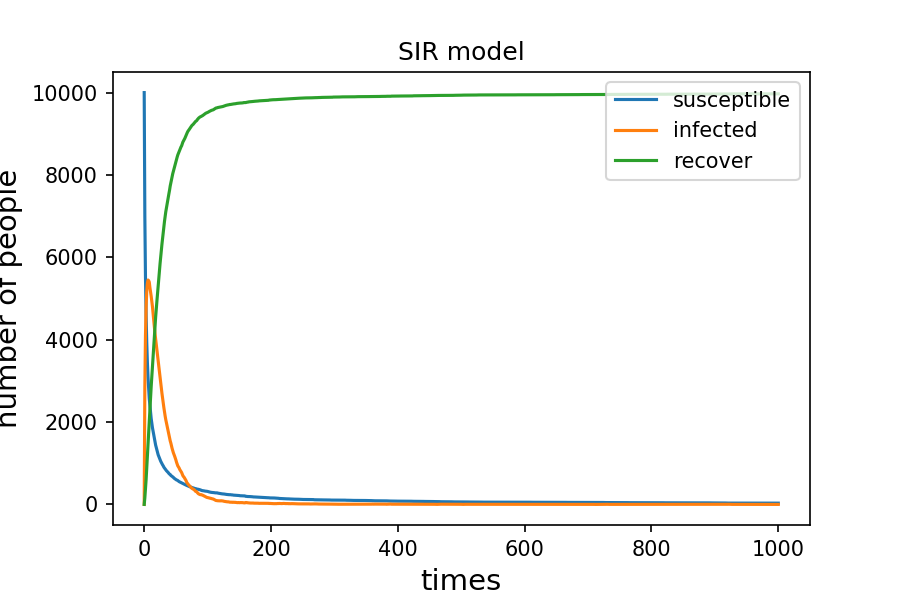
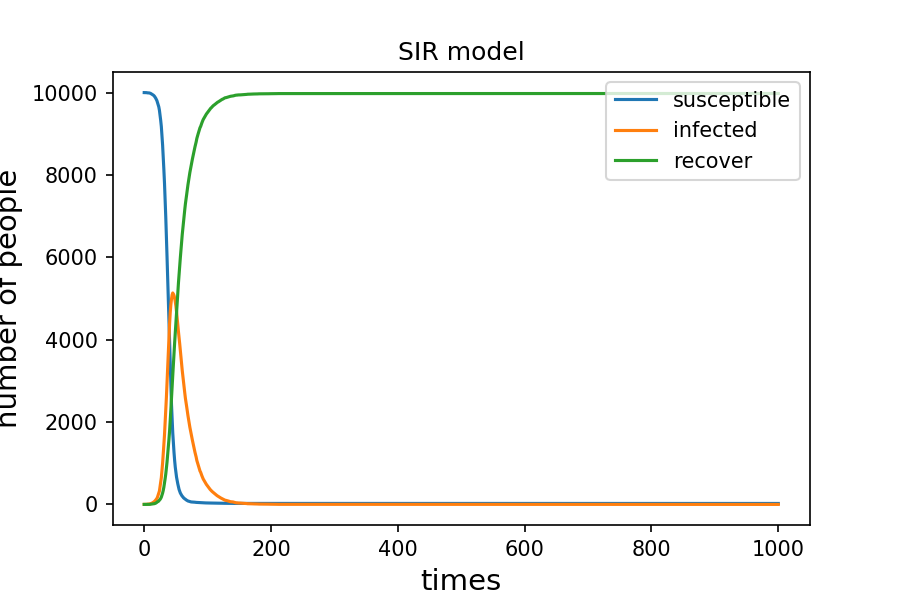
Practical

Changed region(s): [[0.1556, 0.15, 0.7467, 0.84]]

diff --git a/Practicum 12/spatial_SIR.py b/Practicum 12/spatial_SIR.py
@@ -7,21 +7,45 @@ Created on Thu May  9 17:21:46 2019
 import numpy as np 
 import matplotlib . pyplot as plt
 # make array of all susceptible population 
-population = np. zeros ( (100 , 100) )
+population = np. zeros ( (100 , 100) ) 
+# the person with those exact coordinates in our population array and change their status from 0 (susceptible) to 1 (infected)
 #the combination function in itertools can also be used here as replacement
 outbreak = np.random. choice (range(100) ,2) #randomly select from the x and y coordinates of where the outbreak is happening
-print(outbreak)
-# the person with those exact coordinates in our population array and change their status from 0 (susceptible) to 1 (infected)
 population [outbreak[0],outbreak[1]] = 1
+#print(outbreak)
 β=0.3
 γ=0.05
-infectionN=[np.array[outbreak[0],outbreak[1]]]#to store the location of initial infection place
-susceptible=[nparray中其他的点]
-recover=[]
-for i in range(100):#the time course is 100 days 
-    for j in infectionN：#被感染个体周围的个体可用set储存，set可以排除重复的值
-    infection=np.random.choice([infected,uninfected],被感染个体周围的八个个体,p=[β,1-β])
-       for element in infection:
+for i in range(100):#the time course is 100 days   
+    infectionN = np.where(population==1)#to store the location of initial infection
+#print(infectionN)
+    susceptible=np.where(population==0)
+#print(susceptible)
+    recover=[]
+    for j in range(len(infectionN[0])):#the susceptible individual location around infected individual can be store in set to evacuate the repetition 
+       x=infectionN[0][j]
+       y=infectionN[1][j]
+       ## infect 8 neighbours each with probability beta
+       for xNeighbour in range(x-1,x+2):
+           for yNeighbour in range(y-1,y+2):
+                if (xNeighbour,yNeighbour) != (x,y):#do not infect yourself but it does not really matter, because your value is already 1
+                    if xNeighbour != -1 and yNeighbour != -1 and xNeighbour!=100 and yNeighbour!=100:#the edge point do not have 8 neighbors
+                        if population[xNeighbour,yNeighbour]==0:#only susceptible neighbor can be infected
+                            population[xNeighbour,yNeighbour]=np.random.choice(range(2),1,p=[1-β,β])[0] 
+       if population[x,y]==1:#the infected people stay ill or recover
+          population[x,y]=np.random.choice([1,2],1,p=[1-γ,γ])[0]#np.random.choice put out a list     
+color=['g','b','r']
+Label=['susceptible','infected','recover']
+plt . figure ( figsize =(6 ,4) , dpi=150) 
+plt . imshow( population , cmap='viridis',interpolation='nearest' )   
+        
+          
+          
+       
+    
+    
+                                
+"""       
+        for element in infection:
            if element=infected:
                infectionN.append()
                susceptible.pop()
@@ -37,16 +61,17 @@ for i in range(100):#the time course is 100 days
                感染者.pop()
                recover.append()
                #append的对象应为recover的人的位置
-               
-plt . figure ( figsize =(6 ,4) , dpi=150) 
-plt . imshow( population , cmap='viridis',interpolation='nearest' )
-    
       
+"""
     
     
-    
-    
-    
+ 
+
+
+
+ 
+
+ 
     
     
     

diff --git a/Practicum 12/SIR_vaccination.py b/Practicum 12/SIR_vaccination.py
@@ -1,6 +1,6 @@
 # -*- coding: utf-8 -*-
 """
-Created on Wed May  8 14:20:38 2019
+Created on Sun May 12 21:24:54 2019
 
 @author: Jessi
 """
@@ -15,21 +15,25 @@ from matplotlib import cm
 """
 β=0.3
 γ=0.05
-B=[1]
+B=[]
 BB=[]
 #the number of susceptible population vary acoording to the vaccinationrate 
-I=1# people get ill
-R=0#people recovered
 #A,B,C are used to store the length of infectious and recovered people
 N=10000#sum of the population involved
-vaccinationrate=np.arange(0.1,1.1,0.1)
-vaccinationrate.tolist() 
-#print(vaccinationrate)
-for v in vaccinationrate:
-    vaccinatedpopulation=v*N-1
-    S=9999-vaccinatedpopulation#people who is susceptible
-    for i in range(0,1000): #the time length
-        a=np.random.choice(range(2),int(S),p=[β*S/N,1-β*S/N])
+for v in range(0,110,10):
+    vaccinatedpopulation=v*N/100
+    if N==vaccinatedpopulation:
+       I=0
+       S=0
+       B=[0]
+    else:
+        vaccinatedpopulation=v*N/100
+        I=1# people get ill
+        S=10000-vaccinatedpopulation-I#people who is susceptible
+        B=[1]
+    R=0#people recovered
+    for i in range(0,1000): #the time length=1000
+        a=np.random.choice(range(2),int(S),p=[β*I/N,1-β*I/N])
         #susceptible individuals have chances to get disease and recover
         for j in a:
             if j==0:
@@ -37,13 +41,12 @@ for v in vaccinationrate:
                 S=S-1
             if j==1:
                 S==S
-                I==I
         b=np.random.choice([2,0],I,p=[γ,1-γ])
         #infected individuals have chances to recover or stay ill
         for e in b:
             if e==2:
                 R=+1#to append the newly recovered people and delete it in the infectious number
-                I=I-1  
+                I=I-1 
             if e==0:
                 I==I
         B.append(I)#store the result of I for a vaccination rate
@@ -51,19 +54,15 @@ for v in vaccinationrate:
     B=[1]
         #plot
     #print('the number of infectious',B)
-    for element in  BB:  
-        X=range(0,1001)
-        #plt.plot(x, y, format_string, **kwargs): 
-        #x is the X-axis data, can be a list or array;Y in the same way;Format string for control curve, **kwargs second group or more (x, y, format_string)
-        f=plt.plot(X,element)#the plot function is inside the loop, so it can be ploted in one figure
-plt.figure(figsize=(6,4),dpi=150)    
+plt.figure(figsize=(6,4),dpi=150) 
+for j in range(0,11):
+    X=range(0,1001)
+    f=plt.plot(X,BB[j],label=str(j*10)+'%',color=cm.gnuplot2(j*20))#the plot function is inside the loop, so it can be ploted in one figure
+#plt.savefig ("markflow" ,type="png") 
+#plt.plot(x, y, format_string, **kwargs): 
+#x is the X-axis data, can be a list or array;Y in the same way;Format string for control curve, **kwargs second group or more (x, y, format_string)
 plt.xlabel("times", fontsize=14)
 plt.ylabel("number of people", fontsize=14)
-plt.title("SIR_vaccination")
-plt.legend([v in vaccinationrate],loc='upper right')
-plt.savefig ("markflow" ,type="png")         
+plt.title("SIR model with different vaccination rates")
+plt.legend() 
 plt.show()
-
-
-
-    

diff --git a/Practicum8/WEEK 8.py b/Practicum8/WEEK 8.py
@@ -4,43 +4,43 @@ Created on Wed Apr 10 09:06:38 2019
 
 @author: Jessi
 """
-
-from xml.dom.minidom import parse  
-import xml.dom.minidom 
-import pandas as pd
+import xml.dom.minidom
 import re
+import pandas as pd
+
+filePath=r'C:/Users/Jessi/OneDrive/桌面/IBI/IBI1_2018-19/Practicum8'#Your file path
+fileName='autophagosome.xlsx'
+excel=filePath+'/'+fileName
+re_store = re.compile(r'autophagosome')
+#Function to find childnodes 
+def Child(id, result):
+    for term in terms:
+        parents = term.getElementsByTagName('is_a')
+        kid= term.getElementsByTagName('id')[0].childNodes[0].data
+        for parent in parents:
+            if parent.childNodes[0].data == id:
+                result.add(kid)
+                Child(kid, result)
+                
+#create a pandas.Dataframe to store the output
+df = pd.DataFrame(columns=['id','name','definition','childnodes'])
+
+#create the DOM tree    
 DOMTree = xml.dom.minidom.parse("go_obo.xml")
-root=DOMTree.documentElement
-print(root)
-terms=root.getElementsByTagName("term")
-"""
-to find out the element term with autophagosom first
-"""
+obo = DOMTree.documentElement
+terms = obo.getElementsByTagName('term') #get the nodelist of element term
 for term in terms:
-    definition=term.getElementsByTagName('defstr')[0].childNodes[0].data
-    print(type(definition))
-    definitionl=[]
-    idl=[]
-    namel=[]
-"""the three lists are created to store the information of id, definition and name respectively"""
-    if re.findall(r'autophagosome',definition):
-        #to make sure autophagosome is contained in the <defstr> of term 
-         id=term.getElementByTagName('id')[0].childNodes[0].data
-         name=term.getElementByTagName('name')[0].childNodes[0].data
-    definitionl.append(definition)
-    idl.append(id)
-    namel.append(name)
-def childnode(is_a):
-    count=0
-    nodelist=terms.getElementByTag("is_a")
-    for nodes in nodelist:
-        nodes.getChildNode("is_a")
-        count+=len(nodes)
-    count=count+len(nodelist)
-childnode(terms)
-df=pd.Datafrma(namel,columns=[name])
-df=pd.Dataframe(idl,columns=[id])
-df=pd.Dataframe(definitionl,columns=[definition])
+    defstr = term.getElementsByTagName('defstr')[0].childNodes[0].data
+    #find terms that contain the word 'autophagosome'
+    if re_store.search(defstr):
+        id = term.getElementsByTagName('id')[0].childNodes[0].data
+        name = term.getElementsByTagName('name')[0].childNodes[0].data
+        result = set()#to avoid the repetitiness of the element we get
+        Child(id, result)
+        df = df.append(pd.DataFrame({'id':[id],'name':[name],'definition':[defstr],'childnodes':[len(result)]})) 
+        print(id, len(result))
+#save to excel
+df.to_excel(excel,index=False)
 
 """
 abandoned method

diff --git a/Practicum9/Alignment.py b/Practicum9/Alignment.py
@@ -12,6 +12,7 @@ seq2="MLCRAACSTGRRLGPVAGAAGSRHKHSLPDLPYDYGALEPHINAQIMQLHHSKHHAAYVNNLNATEEKYHEALA
 seq3="WNGFSEWWTHEVDYNQKLTIENNQRPKIHEHEQWGLRQSPPPPKLCCPTCQMCERMRHQNRFAPLMEVGCRCMCWFHDWWVISVGTWLHTVIMYMMWPKRFHHNECPKACFRTTYTRKNHHALYWMLFEMCCYDQDVVWSKTHIFTTVRDIEVYVEQVFFIWGPLCHVAIACYEPVKTIRRRIPMYLCRHCIRGDNSYLLACCSIIYYFYHHMSYYGVLDIL" 
 
 """
+description---------------------------------------------------------------
 define a function to get the difference from each sequence, and score is counted for every amino acid in the sequence
 row and cols are write to get the value from BLOSUM62 chart
 and the sheet is used to find the value in cell to get the final value

diff --git a/Practicum 12/SIR.py b/Practicum 12/SIR.py
@@ -28,7 +28,7 @@ these initial numbers should be out of the loop or it will goes into the loop ev
 """
 #A,B,C are used to store the length of list of infectious and recovered people
 for i in range(0,1000):
-    a=np.random.choice(range(2),len(S),p=[β*len(S)/N,1-β*len(S)/N])
+    a=np.random.choice(range(2),len(S),p=[β*len(I)/N,1-β*len(I)/N])
     #susceptible individuals have chances to get disease and recover
     for j in a:
         if j==0:
